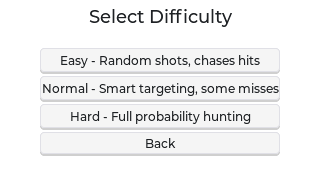
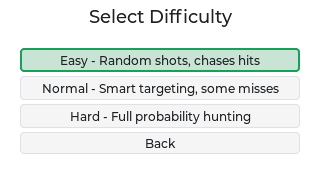
Fix focus rings spilling out of menus on device; Esc on title exits
The LVGL default theme draws button focus as an outline outside the
button, plus a shadow and a press-grow transform. In our tightly stacked
320x170 menus this overlapped neighbours and was clipped by the container
(visible on the real device as "( )" brackets). Draw focus/checked states
inside the button instead, and make checked+focused text readable.

A short Esc on the title screen now returns to the launcher, matching the
"one level up" convention. Widen the difficulty buttons so the longest
label has margin. Package as 1.0.0-2.

diff --git a/src/reactive/bindings.cpp b/src/reactive/bindings.cpp
@@ -78,6 +78,33 @@ void theme_observer(lv_observer_t* observer, lv_subject_t* subject) {
             lv_obj_set_style_text_color(obj, colors.text, 0);
             lv_obj_set_style_pad_hor(obj, 8, 0);
             lv_obj_set_style_pad_ver(obj, 3, 0);
+            // The LVGL default theme draws focus as an outline *outside* the
+            // button, adds a drop shadow, and grows the button on press. In
+            // our tightly stacked 320x170 menus that spills over neighbouring
+            // buttons and gets clipped by the container (seen on the real
+            // device as "( )" brackets around the list). Keep every state
+            // inside the button's own bounds instead.
+            lv_obj_set_style_shadow_width(obj, 0, 0);
+            lv_obj_set_style_outline_width(obj, 0, LV_STATE_FOCUSED);
+            lv_obj_set_style_outline_width(obj, 0, LV_STATE_FOCUS_KEY);
+            lv_obj_set_style_transform_width(obj, 0, LV_STATE_PRESSED);
+            lv_obj_set_style_transform_height(obj, 0, LV_STATE_PRESSED);
+            lv_obj_set_style_border_width(obj, 2, LV_STATE_FOCUSED);
+            lv_obj_set_style_border_color(obj, colors.primary, LV_STATE_FOCUSED);
+            lv_obj_set_style_bg_color(obj, lv_color_mix(colors.primary, colors.button, LV_OPA_20),
+                                      LV_STATE_FOCUSED);
+            // "Selected" (CHECKED) items, e.g. the current language or
+            // transport: solid primary with white text. Without this the
+            // default theme's white CHECKED text sat on the pale focus fill
+            // above and became unreadable when an item was both.
+            lv_obj_set_style_bg_color(obj, colors.primary, LV_STATE_CHECKED);
+            lv_obj_set_style_border_color(obj, colors.primary, LV_STATE_CHECKED);
+            lv_obj_set_style_text_color(obj, lv_color_white(), LV_STATE_CHECKED);
+            lv_obj_set_style_bg_color(obj, colors.primary, LV_STATE_CHECKED | LV_STATE_FOCUSED);
+            lv_obj_set_style_border_width(obj, 2, LV_STATE_CHECKED | LV_STATE_FOCUSED);
+            lv_obj_set_style_border_color(obj, lv_color_darken(colors.primary, LV_OPA_50),
+                                          LV_STATE_CHECKED | LV_STATE_FOCUSED);
+            lv_obj_set_style_text_color(obj, lv_color_white(), LV_STATE_CHECKED | LV_STATE_FOCUSED);
             break;
         case ThemeRole::Text:
             lv_obj_set_style_text_color(obj, colors.text, 0);

diff --git a/src/view/screens/difficulty_screen.cpp b/src/view/screens/difficulty_screen.cpp
@@ -76,7 +76,7 @@ void DifficultyScreen::build_content(lv_obj_t* content) {
 
     for (const auto& entry : kDifficultyEntries) {
         auto* button = lv_button_create(menu);
-        lv_obj_set_size(button, 240, 24);
+        lv_obj_set_size(button, 280, 24);
         reactive::bind_theme(button, view_model().dark_mode_subject(), reactive::ThemeRole::Button);
 
         auto* label = lv_label_create(button);
@@ -94,7 +94,7 @@ void DifficultyScreen::build_content(lv_obj_t* content) {
     }
 
     auto* back_button = lv_button_create(menu);
-    lv_obj_set_size(back_button, 240, 22);
+    lv_obj_set_size(back_button, 280, 22);
     reactive::bind_theme(back_button, view_model().dark_mode_subject(), reactive::ThemeRole::Button);
     auto* back_label = lv_label_create(back_button);
     lv_label_set_text(back_label, tr(StrId::Back));

diff --git a/src/app/screen_namager.cpp b/src/app/screen_namager.cpp
@@ -317,7 +317,10 @@ void ScreenManager::handle_short_esc() {
     const auto page = has_loaded_page_ ? loaded_page_ : view_model_.current_page();
     switch (page) {
         case model::AppPage::Menu:
-            // Root screen: nothing above it. Long Esc / Home exits.
+            // Root screen: "one level up" from the title is the launcher's
+            // home screen, so a short Esc exits the app here (long Esc /
+            // Home keep exiting from anywhere).
+            handle_safe_exit();
             break;
         case model::AppPage::Settings:
         case model::AppPage::Difficulty:
